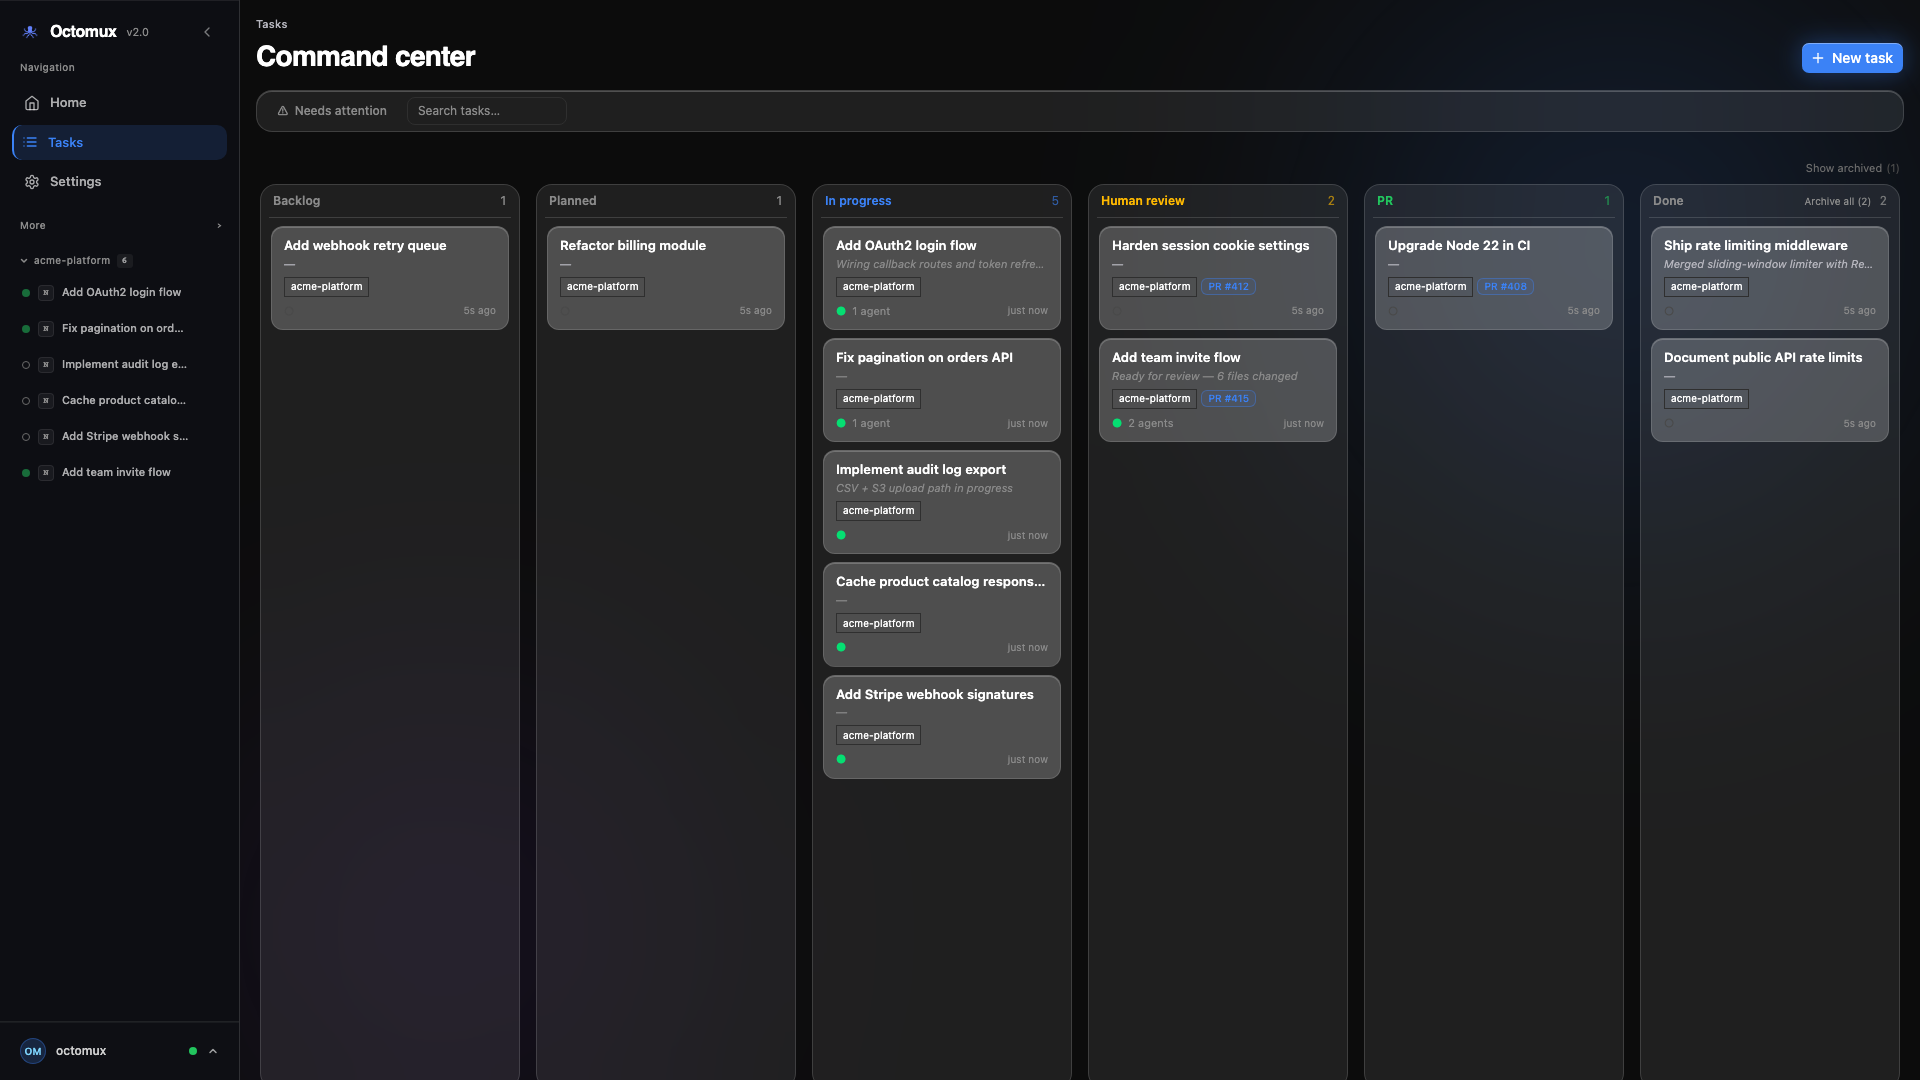
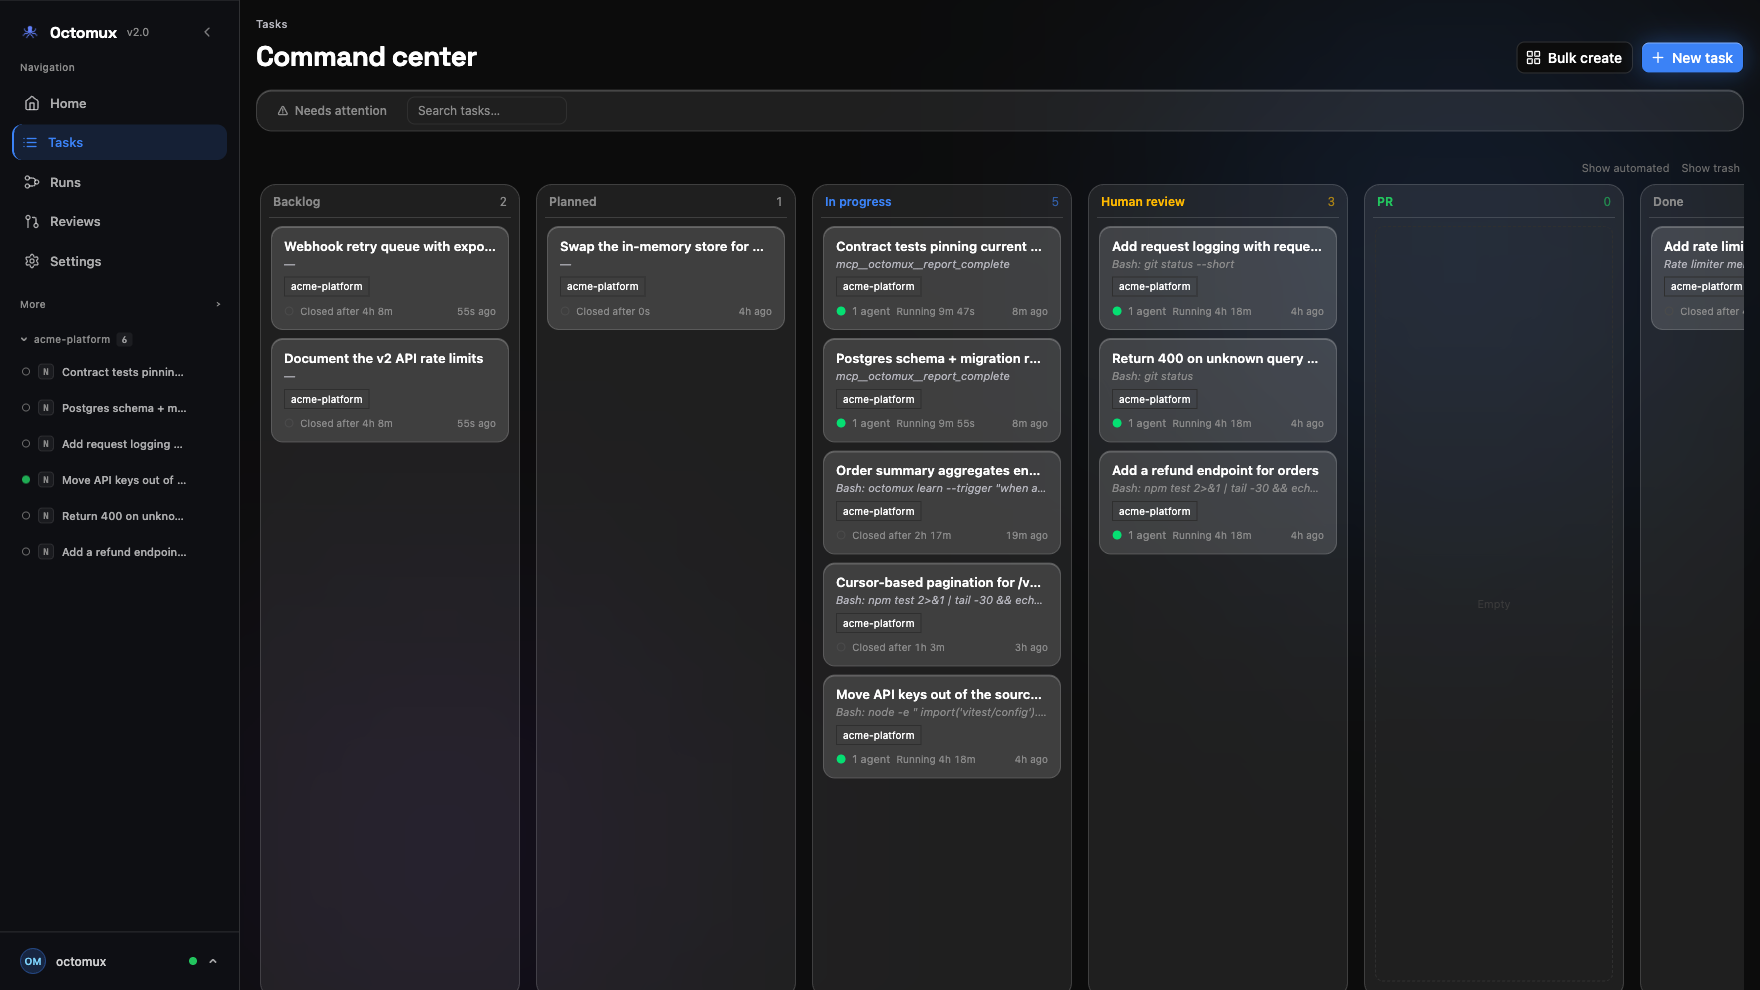
docs(readme): lead with the four acts, refresh screenshots, answer the tmux question
- "What you get" was three phases and omitted the whole unattended act
  (loops, cron, orchestrator) — now four, with a 60-second quickstart that
  shows `loop-start --verify` since that is the least replaceable feature.
- Screenshots were from before Monitor, Schedules, Orchestrator and the
  review walkthrough existed. Replaced with current captures and led with
  the walkthrough and the fleet grid.
- Adds the honest answer to "is this just tmux + worktrees?" — yes,
  underneath, and `tmux attach` still works. That is the question a
  skeptical reader actually searches for.
- Softens "they can't collide": isolation during the work is the easy
  half, merges still conflict normally.
- Dates the comparison table and invites corrections via issue.
- Adds an npm weekly-downloads badge (adoption, not just stars).

diff --git a/README.md b/README.md
@@ -1,6 +1,8 @@
 [![CI](https://github.com/ShreyPaharia/octomux/actions/workflows/ci.yml/badge.svg)](https://github.com/ShreyPaharia/octomux/actions/workflows/ci.yml)
 [![npm version](https://img.shields.io/npm/v/octomux)](https://www.npmjs.com/package/octomux)
 [![license](https://img.shields.io/github/license/ShreyPaharia/octomux)](LICENSE)
+[![npm downloads](https://img.shields.io/npm/dw/octomux)](https://www.npmjs.com/package/octomux)
+[![npm downloads](https://img.shields.io/npm/dw/octomux)](https://www.npmjs.com/package/octomux)
 [![GitHub stars](https://img.shields.io/github/stars/ShreyPaharia/octomux)](https://github.com/ShreyPaharia/octomux)
 
 # octomux
@@ -21,22 +23,44 @@ Open **[localhost:7777](http://localhost:7777)**, describe a task, pick **Claude
 
 ## What you get
 
-Three phases, one window — from prompt to merged PR:
+Four acts, one window — from prompt to merged PR:
 
-- **① Dispatch** — Type a task (or paste a Jira/Linear/GitHub link, or a whole list). Each one gets its own worktree, branch, and agent. Pick the model per task.
-- **② Watch** — Every agent's live terminal, the diff as it grows, and a **Monitor grid** of the whole fleet. Permission prompts land in one **inbox** instead of scattered across panes.
-- **③ Review & Ship** — Diff review in the same window: mark files reviewed, leave inline comments, send them back to the agent to fix. The agent opens the PR — octomux detects it by branch and auto-closes the task when it merges.
+- **① Dispatch** — Type a task (or paste a Jira/Linear/GitHub link, or a whole list). Each one gets its own worktree, branch, and agent. Pick the model and the harness per task.
+- **② Run unattended** — Attach a verify command and the agent **loops in fresh context until that command exits 0**. Put it on a **cron** and it does that at 3am. Hand a goal to the **orchestrator** and it plans, splits, and dispatches child tasks for you to approve.
+- **③ Watch, or don't** — Every agent's live terminal on one **Monitor grid**, the diff as it grows, and every "allow this tool?" prompt collected in a single **inbox** instead of scattered across panes.
+- **④ Review & ship** — An agent drafts a walkthrough and inline comments grounded on the real diff. You read it in-app, mark files reviewed, send comments back for a fix, and publish as one batched GitHub review when *you* accept it. octomux spots the PR by branch and closes the task when it merges.
 
 Crash, reboot, close the lid — `octomux start` restores every task, branch, and session.
 
+### The 60-second version
+
+```bash
+npm install -g octomux && octomux init
+cd your-repo && octomux start          # → localhost:7777
+
+# or skip the UI and loop a task until the tests actually pass:
+octomux create-task -t "Fix the flaky checkout test" -d "..." -p "..." -r .
+octomux loop-start --task <id> --verify "npm test" --max-iterations 8
+```
+
 ## Screenshots
 
-|                                                                               |                                                          |
-| ----------------------------------------------------------------------------- | -------------------------------------------------------- |
-| **Home inbox + composer** — permission prompts, recent activity, dispatch bar | ![Home](assets/screenshots/dashboard-hero.png)           |
-| **Command center** — kanban from backlog → done                               | ![Command center](assets/screenshots/command-center.png) |
-| **Task cockpit** — agent tabs, live session, Review, Done                     | ![Task detail](assets/screenshots/task-detail.png)       |
-| **Diff review** — file tree, reviewed state, inline comments                  | ![Diff](assets/screenshots/diff-review.png)              |
+**Review workstation** — the agent opens with a verdict, a risk read, and a ranked list of things worth looking at, each linked to a line. Start there, then drop into the diff.
+
+![Review walkthrough](assets/screenshots/review-walkthrough.png)
+
+**Monitor grid** — every running agent's terminal on one wall. Spot the stuck one instantly.
+
+![Monitor grid](assets/screenshots/monitor-grid.png)
+
+|                                                                        |                                                                |
+| ---------------------------------------------------------------------- | -------------------------------------------------------------- |
+| **Home inbox + composer** — permission prompts, activity, dispatch bar | ![Home](assets/screenshots/home-inbox.png)                     |
+| **Command center** — kanban from backlog → done                        | ![Command center](assets/screenshots/command-center.png)       |
+| **Schedules** — cron, timezone, model, verify command, prompt          | ![Schedules](assets/screenshots/schedules.png)                 |
+| **Orchestrator** — an agent planning and dispatching child tasks       | ![Orchestrator](assets/screenshots/orchestrator.png)           |
+| **Diff review** — file tree, reviewed state, inline comments           | ![Diff](assets/screenshots/diff-review.png)                    |
+| **On your phone** — same fleet, over a Tailscale tailnet               | ![Mobile](assets/screenshots/mobile-remote.png)                |
 
 ## Features
 
@@ -77,6 +101,10 @@ Three workflows octomux makes one-click:
 | Platform                               | macOS + Linux     | macOS/Linux/Win   | macOS only    | macOS/Linux/Win |
 
 <sub>\* Bloop, the company behind vibe-kanban, wound down in early 2026; it continues as a community project.</sub>
+
+<sub>Verified 2 Aug 2026 against each project's own docs. Something out of date or unfair? [Open an issue](https://github.com/ShreyPaharia/octomux/issues/new) — corrections to this table are welcome and get merged.</sub>
+
+<sub>Verified 2 Aug 2026 against each project's own docs. Something out of date or unfair? [Open an issue](https://github.com/ShreyPaharia/octomux/issues/new) — corrections to this table are welcome and get merged.</sub>
 
 ## Why octomux
 
@@ -149,9 +177,13 @@ we're building toward; if that's what you want, [open an issue](https://github.c
 
 ## FAQ
 
-**How is this different from tmux + Claude Code?** octomux adds the inbox, the fleet grid, the review workstation, and the orchestrator view on top. tmux is plumbing underneath.
+**Is this just tmux + git worktrees?** Underneath, largely yes — one tmux session per task, one window per agent, one worktree per branch. `tmux attach -t octomux-agent-<id>` still works and your own scripts still work; nothing is hidden from you. What octomux adds is the layer above: one permission inbox, the whole fleet on one grid, loops with a verify command, cron schedules, and a review workstation. If you have already built that on top of tmux, you do not need this.
 
-**What if two agents touch the same file?** They can't — each task runs in its own git worktree on its own branch.
+**What does it cost to run?** Nothing beyond what you already pay. MIT licensed, and it adds no inference cost of its own — it drives the Claude Code or Cursor subscription you already have. Loops multiply token spend by the iteration count, so set `--max-iterations` and a budget.
+
+**Will an overnight loop burn through my plan limits?** Loops are capped. You set a max iteration count and an optional token/time budget, and a loop stops early when it stops making progress. Every pass and its cost lands in the `/loops` ledger, and you can stop a run from the UI or your phone.
+
+**What if two agents touch the same file?** During the work they can't — each task is its own git worktree on its own branch, so your main working tree never moves. At merge time you still get normal git conflicts; what octomux gives you is all N diffs in one review queue so you pick the merge order deliberately.
 
 **Can I use it from my phone?** Yes — host it on a tailnet box and open the mobile-ready dashboard from any device on the tailnet.
 
